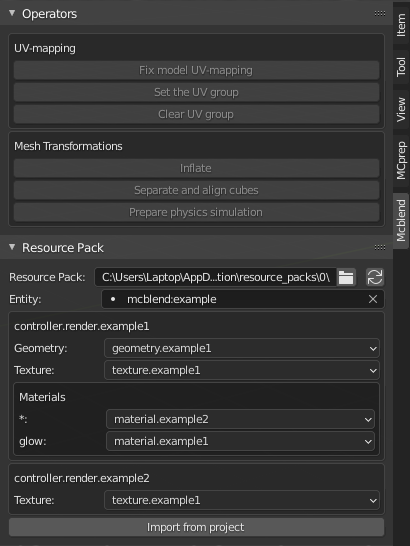
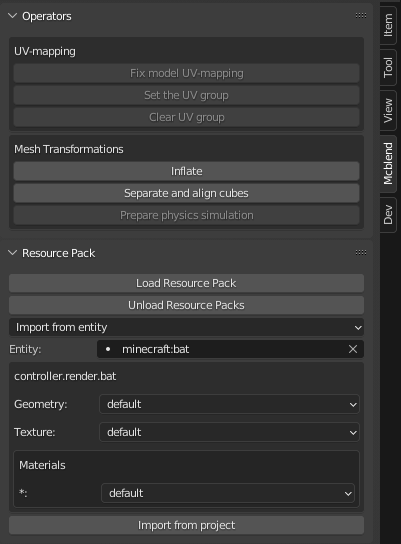
Updated documentation for version 9.4.0

Changed region(s): [[0.0, 0.0, 1.0, 1.0], [0.0299, 0.0, 0.8678, 0.25], [0.0299, 0.25, 0.2993, 0.2812]]

diff --git a/docs/limitations/index.md b/docs/limitations/index.md
@@ -17,9 +17,11 @@ poly_meshes. *Empties* are used as Minecraft's *locators*.
 The objects and empties can be parented to different objects (but not to
 empties) as long as there is a bone on top of their hierarchy.
 
-If a bone has no parents and children aren't exported at all, this is useful
-because in blender you sometimes use such bones for inverse kinematics and they
-don't have much use in Minecraft.
+If a bone has no parents and children it's ignored during the export. This is
+useful because in Blender you sometimes may want to use such bones for inverse
+kinematics. Skipping these bones doesn't mean that you loose anything because
+the bones without child cubes, locators or poly meshes can't be viewed in
+the game anyway.
 
 !!! Note
 
@@ -27,8 +29,8 @@ don't have much use in Minecraft.
 
     The *[separate cubes operator](/mcblend/gui/3d_viewport_sidebar/#mesh-transformations-panel)* can
     help you with separating meshes that contain multiple cubes into multiple
-    objects with properly aligned rotations. This means that you can organize
-    your cubes in a single mesh and as long as its parts have proper shapes,
+    objects with properly aligned rotations. This means that you can create
+    your model in a single mesh and as long as its parts have proper shapes,
     it's possible to separate them to a format that can be used by Mcblend.
 
     If you don't want to be restricted to using only cuboids for your model you
@@ -87,7 +89,7 @@ replaced with `...`.
     ]
 }
 ```
-Minecraft models are made out of with bones. Every bone has a list of cubes
+Minecraft models are made out of bones. Every bone has a list of cubes
 and/or a poly_mesh. Every cube and polymesh has its own pivot and rotation.
 Mcblend needs to know these values in order to export the model. This means
 that you can't just pack everything into a single mesh because a mesh is just a
@@ -105,7 +107,7 @@ models were hard to understand and the feature was removed.
 
 The UV maps of the faces of the *cubes* must be rectangular and the must be
 aligned with the orientation of the texture image. They also must be properly
-rotated to matche the rotations allowed by Minecraft. A proper rotation is
+rotated to match the rotations allowed by Minecraft. A proper rotation is
 when:
 
 - Front, back, left and right faces have their top and bottom edges aligned

diff --git a/docs/gui/3d_viewport_sidebar/index.md b/docs/gui/3d_viewport_sidebar/index.md
@@ -57,12 +57,23 @@ By default you can open the sidebar by pressing `N` while you hover over the
   ![](/mcblend/img/physics.png)
 
 ## Resurce Pack panel
-The Resource Pack panel lets you connect a resource pack to a project. When
-you have a resource pack connected to your project, you can easily import an entity
-from a list and import all of its models (if it has multiple) and select
-the texture variant and materials. The example on the sidebar
-image above is more complicated than most of the models that you would 
-normally import, in most cases Mcblend will be able to automatically detect
-which model, material and texture should be used, but in some cases it's
-impossible to tell without analyzing the behavior of the entity once MoLang queries
-are used. In these situations additional user input is required.
+The Resource Pack panel lets you connect a resource pack to a project.
+After opening Blender it will only have one button - "Load Resource Pack". This
+button loads information about the entities and attachable items available for
+importing. After loading the pack, additional GUI items will apper:
+
+- The top dropdown list lets you select whether you want to improt an entity
+  or a model of an attachable item.
+- Below the dropdown list there is a text box that lets you select item or
+  entity to import.
+- At the bottom of the panel additional options will appear to let you select
+  textures, materials and models. They depend on the properties of the
+  render controllers of the thing you want to import.
+
+Multiple resource packs can be loaded at the same time. If they define the
+same model, resource pack or texture, the one that was loaded last will be
+used.
+
+The "Unload Resource Pack" button unloads the currently loaded resource pack.
+The data about the resource pack isn't saved in the `.blend` file, so you have
+to load it every time you open the project.

diff --git a/docs/index.md b/docs/index.md
@@ -2,7 +2,8 @@
 Mcblend is a Blender addon for creating and animating Minecraft Bedrock Edition models.
 
 ## Features
-- Importing and exporting Minecraft Bedrock Edition polymesh and cube-based
+- Importing and exporting Minecraft Bedrock Edition polymesh and cube-based models
+  (directly and based on attachables/entities from resource packs).
 - Exporting keyframe animations and poses for entities and attachables.
 - Animations can be baked into Minecraft format even if they use features
   not supported by the game like inverse kinematics and constraints.
@@ -16,7 +17,7 @@ The page is open for suggestions and feature requests.
 
 ## Installation
 1. Download and install
-  [Blender 2.93](https://www.blender.org/download/lts/2-93/) (the current LTS version).
+  [Blender 3.3](https://www.blender.org/download/releases/3-3/) (the current LTS version).
 2. Download the "latest" or "pre-release" version (zip file) from the project
   page on GitHub: [https://github.com/Nusiq/mcblend/releases](https://github.com/Nusiq/mcblend/releases)
 
